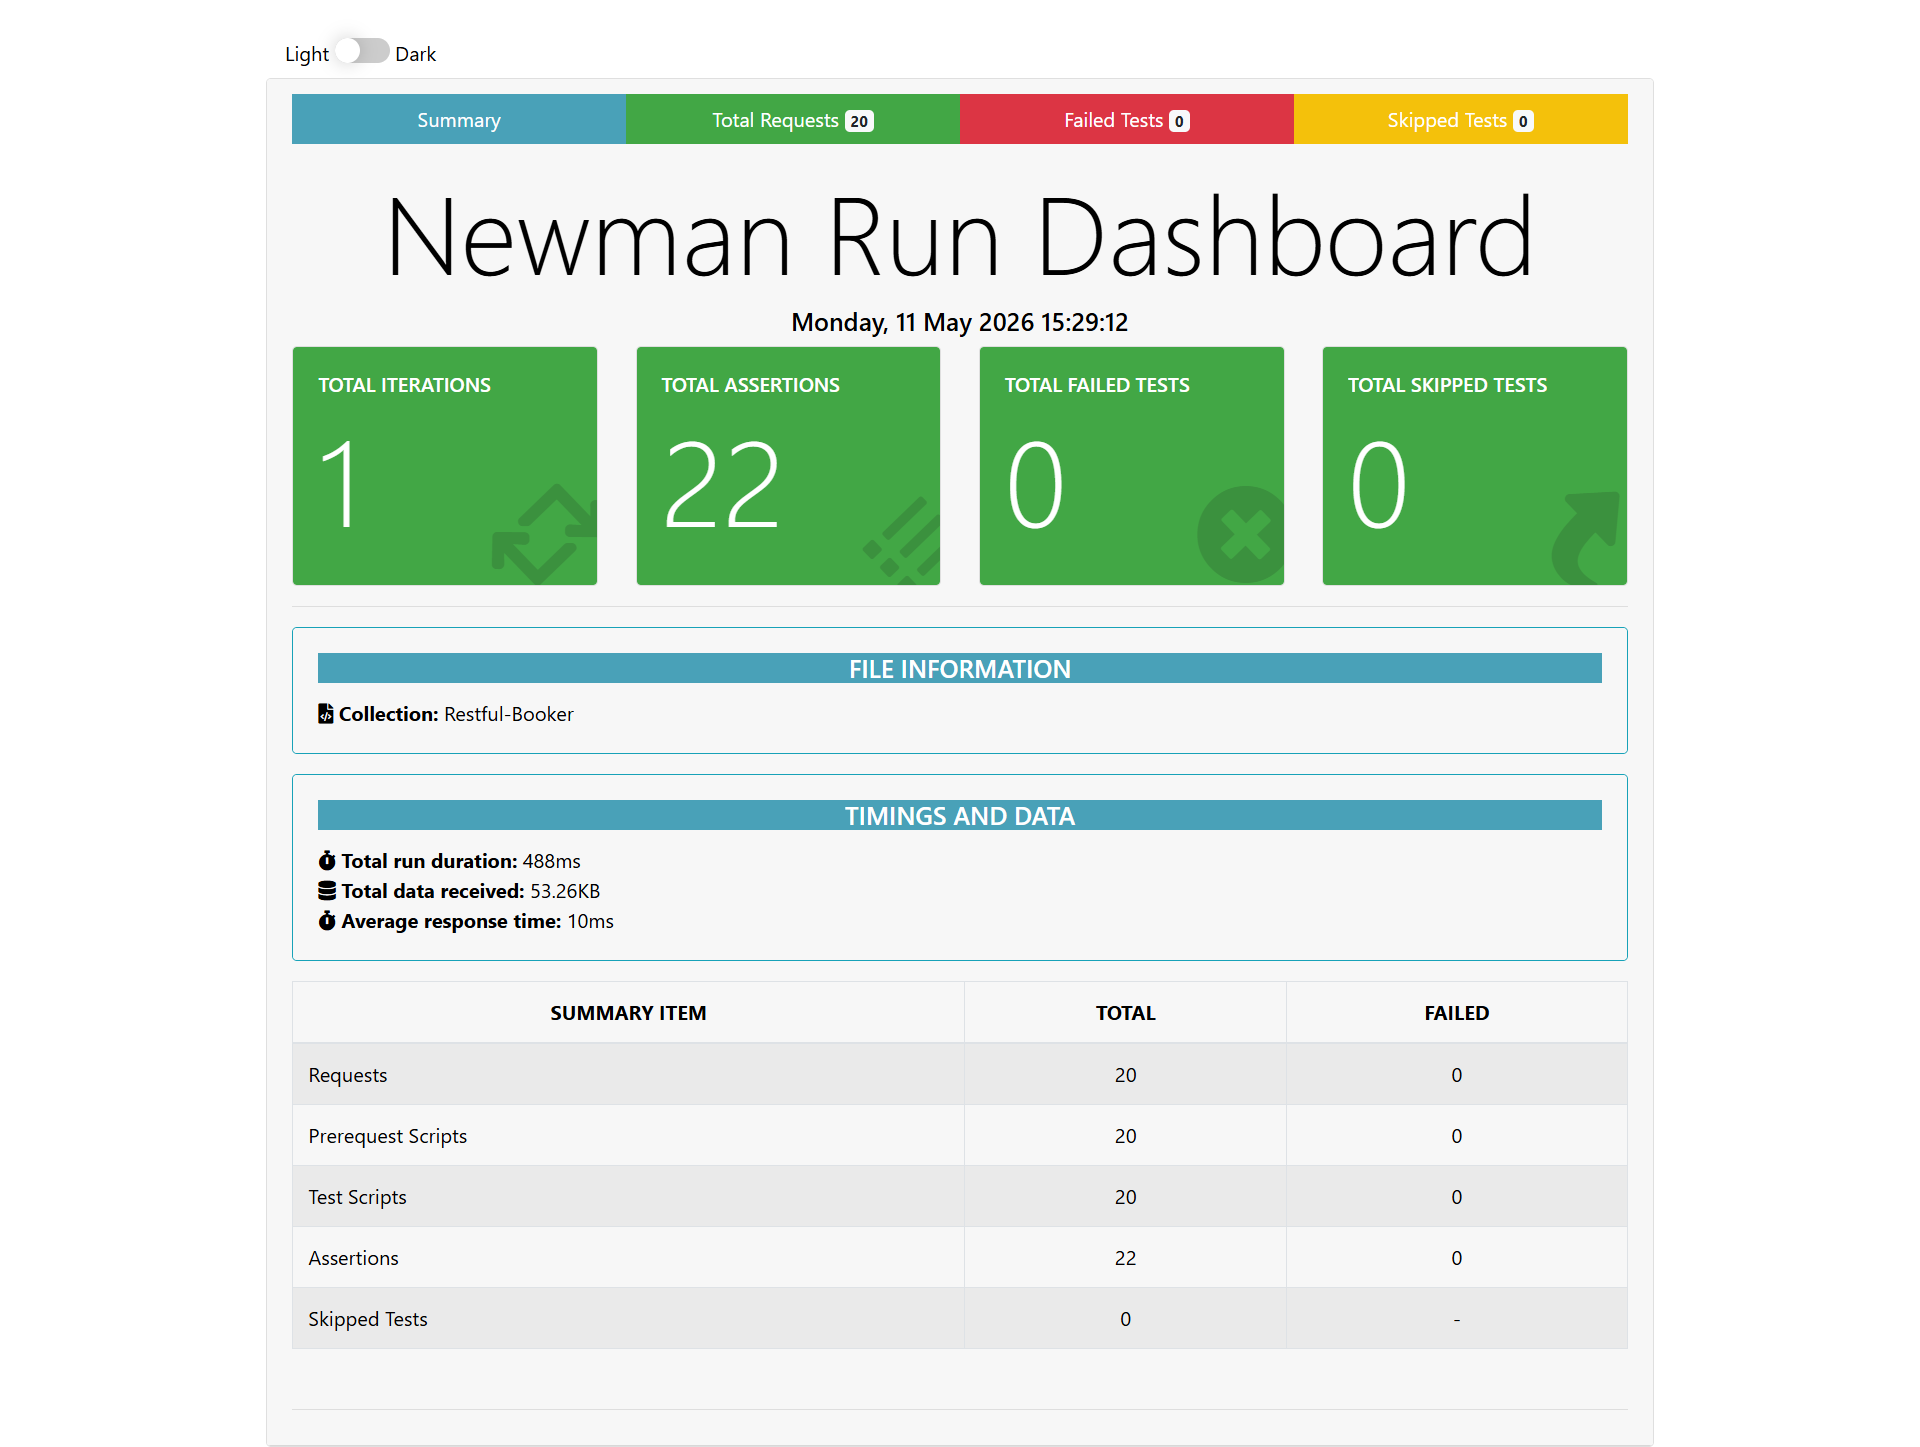
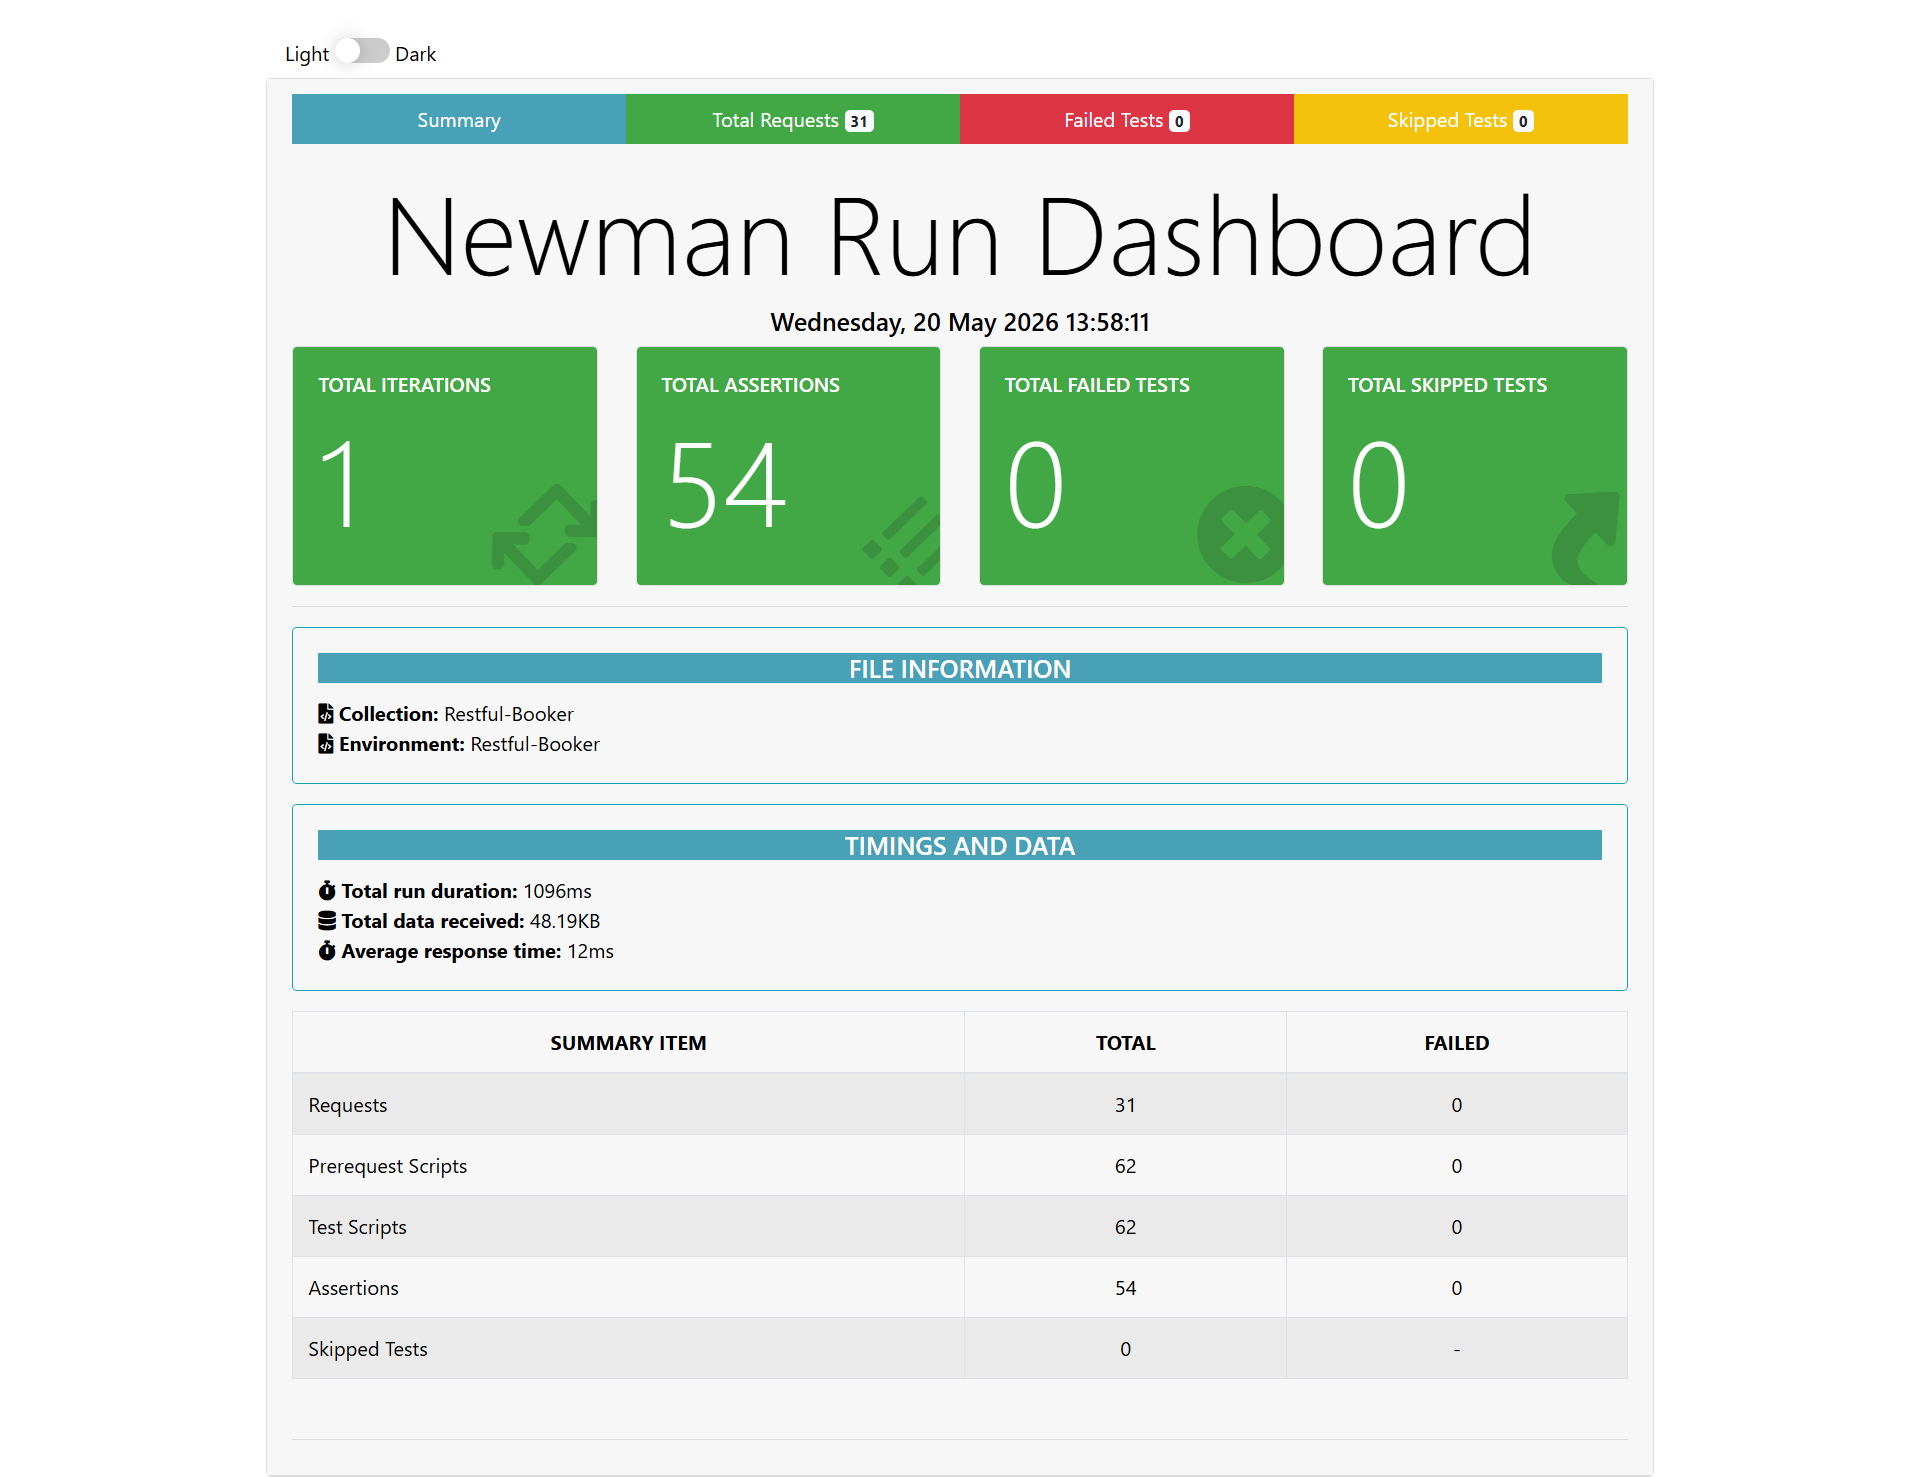
updated readme and test plan

diff --git a/docs/test-plan.md b/docs/test-plan.md
@@ -39,7 +39,7 @@ Risk: Enpoints unable to handle large traffic
 Mitigation: Run performance tests to ensure enpoints are able to handle large traffic
 
 Risk: Submitting booking requests with incomplete data/information.
-Mitigation: Perform validations tests to 
+Mitigation: Perform validation tests to ensure these issues are found and addressed
 
 
 ## Entry and Exit criteria

diff --git a/README.md b/README.md
@@ -98,7 +98,7 @@ Software Quality Assurance Analyst
 
 
 ## 📊 Newman HTML Report
-![alt text](image.png)
+![newman html report](image.png)
 
 ## 🔄 GitHub Actions CI Pipeline
 ![alt text](image-1.png)
